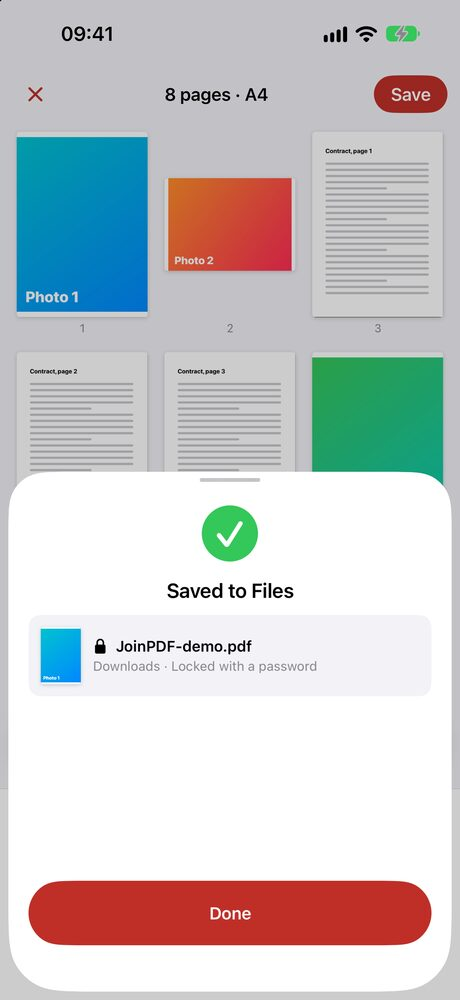
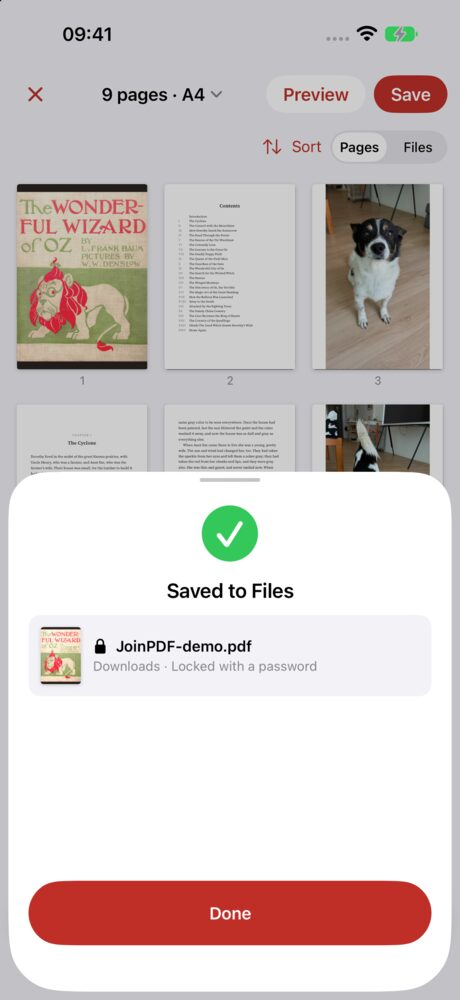
feat(blog): PDF 합치기 글에 단계별 빨간 박스 캡처 5장
단계를 그림 번호와 맞춰 4단계로 묶고, 앱 버튼 이름(Blank page, Lock with a password)을 화면대로 고쳤다.

diff --git a/content/blog/combine-pdf-files-iphone/index.md b/content/blog/combine-pdf-files-iphone/index.md
@@ -43,18 +43,24 @@ If the files are already named in the right order and you need every page as it 
 
 We make [JoinPDF](/apps/joinpdf/) for the other case: when the order, or single pages, matter.
 
+1. Tap **Choose PDF or files** for your PDFs, and **Choose photos** for pictures. **Scan a document** takes a paper page with the camera.
+2. Every page appears on one board, numbered. A three-page PDF becomes three pages you can move on their own. Touch and hold a page, then drag it where it belongs.
+3. Tap pages to select them, then tap **Rotate**, **Duplicate** or **Remove** at the bottom. **Blank page** adds an empty page.
+4. Tap **Save**, then **Save to Files**. Turn on **Lock with a password** first if the PDF should be locked.
+
 <div class="shots">
-<figure><img src="joinpdf-board.jpg" alt="JoinPDF board titled 8 pages, A4: photos and the pages of a contract PDF side by side in a numbered grid, with a Save button at the top right" width="460" height="1000" loading="lazy"><figcaption>Every page of every file on one board</figcaption></figure>
+<figure><img src="joinpdf-choose.jpg" alt="JoinPDF first screen with Choose PDF or files marked 1 in red" width="434" height="1000" loading="lazy"><figcaption>1. Choose PDF or files</figcaption></figure>
+<figure><img src="joinpdf-drag.jpg" alt="JoinPDF board of nine numbered pages from PDFs and photos, with page 6 marked 2 in red to touch and hold and drag" width="434" height="1000" loading="lazy"><figcaption>2. Touch and hold a page, then drag</figcaption></figure>
+</div>
+<div class="shots">
+<figure><img src="joinpdf-select.jpg" alt="JoinPDF with one page selected and the Rotate, Duplicate and Remove buttons marked 3 in red" width="434" height="1000" loading="lazy"><figcaption>3. Select pages, then Rotate, Duplicate or Remove</figcaption></figure>
+<figure><img src="joinpdf-save.jpg" alt="JoinPDF Save PDF sheet with Save, the Lock with a password switch and Save to Files marked 4 in red" width="434" height="1000" loading="lazy"><figcaption>4. Save, then Save to Files</figcaption></figure>
+</div>
+<div class="shots one">
 <figure><img src="joinpdf-saved.jpg" alt="JoinPDF Saved to Files sheet showing JoinPDF-demo.pdf in Downloads, locked with a password" width="460" height="1000" loading="lazy"><figcaption>Saved as one PDF, here with a password</figcaption></figure>
 </div>
 
-1. Tap **Choose PDF or files** for your PDFs, and **Choose photos** for pictures. **Scan a document** takes a paper page with the camera.
-2. Every page appears on one board, numbered. A three-page PDF becomes three pages you can move on their own.
-3. Touch and hold a page, then drag it where it belongs.
-4. Tap pages to select them, then rotate, duplicate or remove them. **Blank** adds an empty page.
-5. Tap **Save**, then **Save to Files**. Turn on the password switch first if the PDF should be locked.
-
-Photos of different sizes can look messy next to document pages. Under **Paper**, choose A4 or Letter and a margin, and every page is placed on the same size of paper.
+Photos of different sizes can look messy next to document pages. Tap **Paper**, choose A4 or Letter and a margin, and every page is placed on the same size of paper.
 
 ## Is it free?
 
